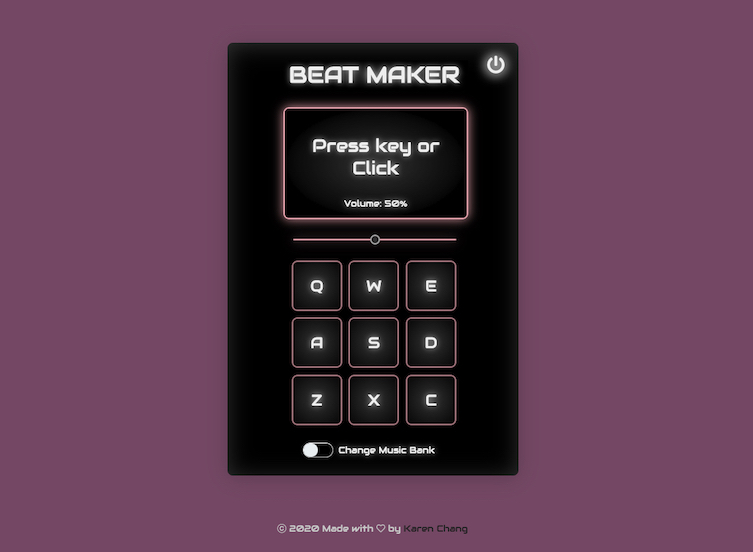
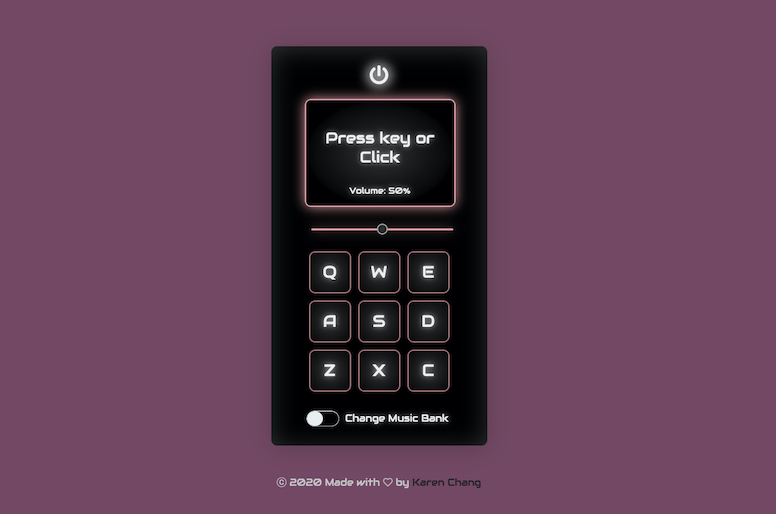
update cover

Changed region(s): [[0.2749, 0.0623, 0.7025, 0.8716], [0.336, 0.9339, 0.6414, 0.965]]

diff --git a/src/App.scss b/src/App.scss
@@ -33,7 +33,7 @@ body {
     width: 360px;
     padding: 2rem;
     display: grid;
-    margin: auto;
+    margin: 3rem auto;
     border-radius: 10px;
     box-shadow: 0 5px 40px rgba(0, 0, 0, 0.2),
       0 5px 40px rgba(255, 255, 255, 0.2) inset;
@@ -185,6 +185,7 @@ body {
 .footer {  
   color: #ccc;
   align-self: start;
+  margin-top: -2rem;
   
     a {
       text-decoration: none;

diff --git a/src/App.css b/src/App.css
@@ -25,7 +25,7 @@ body {
   width: 360px;
   padding: 2rem;
   display: grid;
-  margin: auto;
+  margin: 3rem auto;
   border-radius: 10px;
   box-shadow: 0 5px 40px rgba(0, 0, 0, 0.2), 0 5px 40px rgba(255, 255, 255, 0.2) inset;
 }
@@ -158,6 +158,7 @@ body {
 .footer {
   color: #ccc;
   align-self: start;
+  margin-top: -2rem;
 }
 .footer a {
   text-decoration: none;
